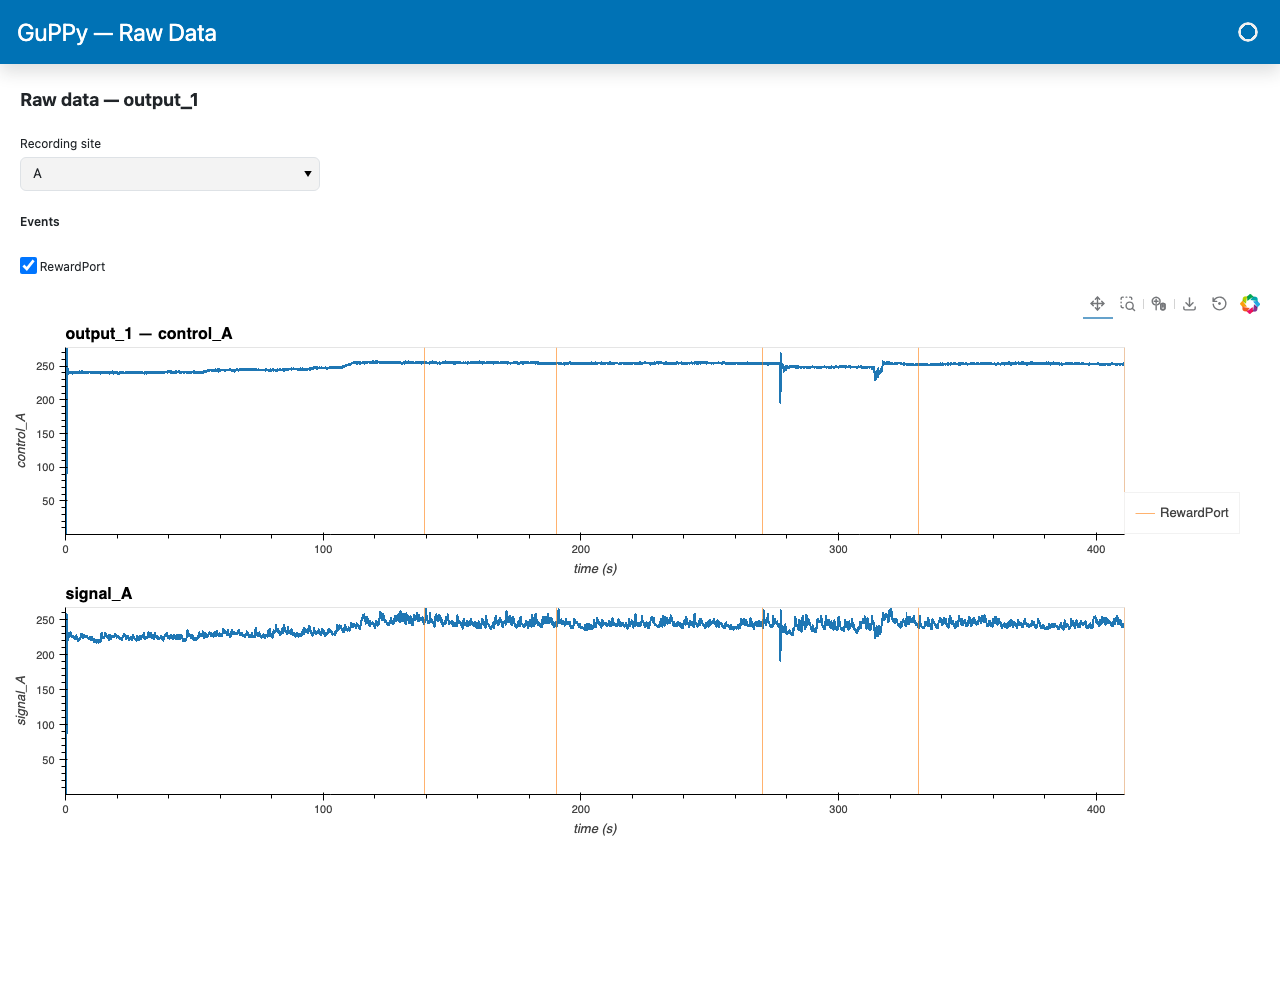
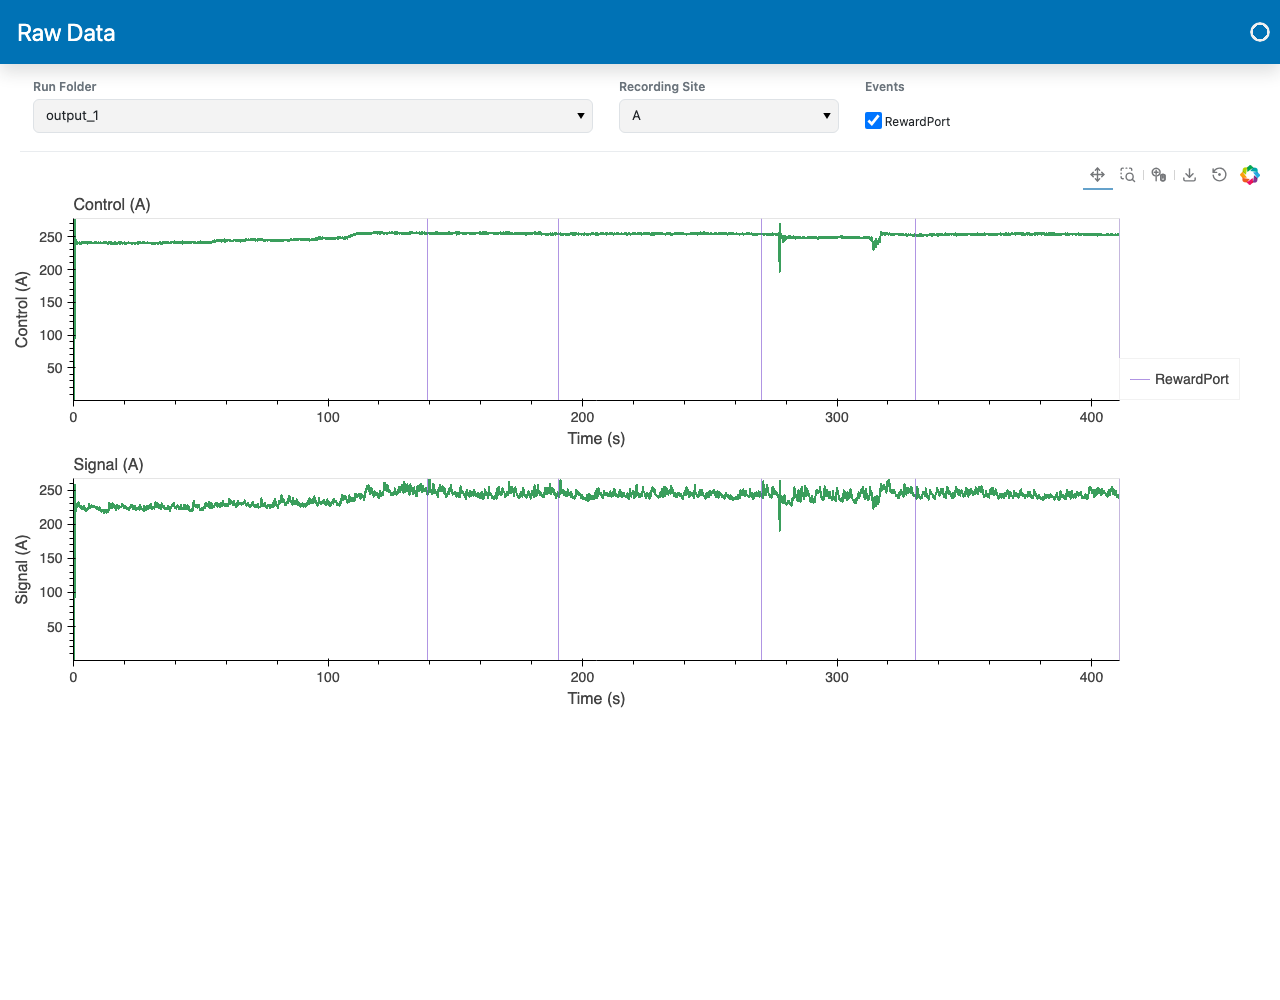
Port the Raw Data view to the run-folder page layout from #590
The view now takes the Run Folder toolbar field build_run_folder_page passes, puts the
recording site and event pickers in the toolbar beside it, titles each trace with
trace_title, labels time with TIME_LABEL, and draws events in the plot palette's
non-trace colors.

diff --git a/src/guppy/frontend/raw_data_view.py b/src/guppy/frontend/raw_data_view.py
@@ -12,6 +12,7 @@ import numpy as np
 import panel as pn
 
 from .artifact_removal import build_run_folder_page
+from .plot_card import CHECKBOX_MARGIN, CONTROL_MARGIN, plot_page, toolbar_field
 from ..analysis.io_utils import (
     is_channel_label,
     is_covariate_label,
@@ -19,6 +20,7 @@ from ..analysis.io_utils import (
 )
 from ..analysis.timestamp_correction import expand_block_timestamps
 from ..utils.stores_list import read_stores_list
+from ..visualization.labels import trace_title
 from ..visualization.raw_data import build_raw_traces, event_colors
 
 hv.extension("bokeh")
@@ -96,8 +98,8 @@ class RawDataView:
         Recording site → channel label → ``(times, values)``.
     event_times : dict
         Event label → event timestamps.
-    label : str
-        Name of the run folder among the ones on offer.
+    run_field : pn.viewable.Viewable
+        The "Run Folder" toolbar field, placed first in the page's toolbar.
     """
 
     def __init__(
@@ -105,43 +107,40 @@ class RawDataView:
         *,
         channels: dict[str, dict[str, tuple[np.ndarray, np.ndarray]]],
         event_times: dict[str, np.ndarray],
-        label: str,
+        run_field: pn.viewable.Viewable,
     ) -> None:
         self.channels = channels
         self.event_times = event_times
-        self.label = label
         self.colors = event_colors(event_labels=list(event_times))
 
         sites = list(channels)
-        self.site_select = pn.widgets.Select(name="Recording site", options=sites, value=sites[0])
-        self.event_select = pn.widgets.CheckBoxGroup(options=list(event_times), value=list(event_times), inline=True)
+        self.site_select = pn.widgets.Select(options=sites, value=sites[0], width=220, margin=CONTROL_MARGIN)
+        self.event_select = pn.widgets.CheckBoxGroup(
+            options=list(event_times), value=list(event_times), inline=True, margin=CHECKBOX_MARGIN
+        )
         self.plot_pane = pn.pane.HoloViews(self._make_plot(), sizing_mode="stretch_width")
         self.site_select.param.watch(self._refresh, "value")
         self.event_select.param.watch(self._refresh, "value")
 
-        self.widget = pn.Column(
-            f"## Raw data — {self.label}",
-            self.site_select,
-            *(["**Events**", self.event_select] if event_times else []),
-            self.plot_pane,
-            sizing_mode="stretch_width",
-        )
+        fields = [run_field, toolbar_field("Recording Site", self.site_select)]
+        if event_times:
+            fields.append(toolbar_field("Events", self.event_select))
+        self.widget = plot_page(fields=fields, body=[self.plot_pane])
 
     def _make_plot(self) -> hv.Layout:
         return build_raw_traces(
-            traces=self.channels[self.site_select.value],
+            traces={trace_title(channel): trace for channel, trace in self.channels[self.site_select.value].items()},
             event_times={label: self.event_times[label] for label in self.event_select.value},
             colors=self.colors,
-            suptitle=self.label,
         )
 
     def _refresh(self, event: object) -> None:
         self.plot_pane.object = self._make_plot()
 
 
-def _build_folder_page(*, run_folder: str, label: str) -> pn.viewable.Viewable:
+def _build_folder_page(run_folder: str, run_field: pn.viewable.Viewable) -> pn.viewable.Viewable:
     channels, event_times = load_raw_data(run_folder=run_folder)
-    return RawDataView(channels=channels, event_times=event_times, label=label).widget
+    return RawDataView(channels=channels, event_times=event_times, run_field=run_field).widget
 
 
 def build_raw_data_view_page(*, run_folders: list[str]) -> pn.viewable.Viewable:
@@ -157,7 +156,4 @@ def build_raw_data_view_page(*, run_folders: list[str]) -> pn.viewable.Viewable:
     pn.viewable.Viewable
         The composed page.
     """
-    return build_run_folder_page(
-        run_folders=run_folders,
-        build_folder_page=lambda run_folder, label: _build_folder_page(run_folder=run_folder, label=label),
-    )
+    return build_run_folder_page(run_folders=run_folders, build_folder_page=_build_folder_page)

diff --git a/tests/unit/frontend/test_raw_data_view.py b/tests/unit/frontend/test_raw_data_view.py
@@ -13,6 +13,16 @@ from guppy.utils.stores_list import write_stores_list
 from guppy_test_data import resolve_plot
 
 
+def toolbar_labels(page):
+    """The labels of a page's toolbar fields, which open the page."""
+    return [field[0].object.split(">")[1].split("<")[0] for field in page[0]]
+
+
+def run_folder_selectors(page):
+    """The run folder selectors on a page: the selects offering run folders by label."""
+    return [select for select in page.select(pn.widgets.Select) if isinstance(select.options, dict)]
+
+
 @pytest.fixture
 def block_run_folder(tmp_path):
     """A run folder laid out as Step 2 writes block-structured (TDT) stores.
@@ -110,23 +120,23 @@ def _event_lines(view, index):
     """Event label → x positions of the vertical lines drawn on one panel."""
     plot = resolve_plot(view.plot_pane.object.values()[index])
     elements = list(plot.values()) if isinstance(plot, hv.Overlay) else [plot]
-    return {item.label: list(item.data["time (s)"]) for item in elements if isinstance(item, hv.VLines)}
+    return {item.label: list(item.data["Time (s)"]) for item in elements if isinstance(item, hv.VLines)}
 
 
 @pytest.fixture
 def raw_data_view(panel_extension, sample_run_folder):
     channels, event_times = load_raw_data(run_folder=str(sample_run_folder))
-    return RawDataView(channels=channels, event_times=event_times, label="output_1")
+    return RawDataView(channels=channels, event_times=event_times, run_field=pn.Column())
 
 
 class TestRawDataView:
     def test_stacks_the_first_sites_channels(self, raw_data_view):
         assert raw_data_view.site_select.options == ["A", "B"]
-        assert _panel_titles(raw_data_view) == ["output_1 — control_A", "signal_A"]
+        assert _panel_titles(raw_data_view) == ["Control (A)", "Signal (A)"]
 
     def test_site_selector_switches_the_channels(self, raw_data_view):
         raw_data_view.site_select.value = "B"
-        assert _panel_titles(raw_data_view) == ["output_1 — signal_B"]
+        assert _panel_titles(raw_data_view) == ["Signal (B)"]
 
     def test_marks_every_event_on_every_panel(self, raw_data_view):
         assert raw_data_view.event_select.value == ["lick", "reward"]
@@ -141,18 +151,20 @@ class TestRawDataView:
         view = RawDataView(
             channels={"A": {"signal_A": (np.array([0.0, 1.0]), np.array([1.0, 2.0]))}},
             event_times={},
-            label="output_1",
+            run_field=pn.Column(),
         )
-        assert "**Events**" not in [item.object for item in view.widget if isinstance(item, pn.pane.Markdown)]
+        assert view.widget.select(pn.widgets.CheckBoxGroup) == []
         assert _event_lines(view, 0) == {}
 
 
 class TestBuildRawDataViewPage:
-    def test_single_folder_has_no_folder_selector(self, panel_extension, sample_run_folder):
+    def test_single_folder_still_names_its_run_in_the_toolbar(self, panel_extension, sample_run_folder):
         page = build_raw_data_view_page(run_folders=[str(sample_run_folder)])
-        assert [widget for widget in page.select(pn.widgets.Select) if widget.name == "Run folder"] == []
+        (view,) = page
+        assert toolbar_labels(view) == ["Run Folder", "Recording Site", "Events"]
+        assert [list(select.options.values()) for select in run_folder_selectors(page)] == [[str(sample_run_folder)]]
 
     def test_multiple_folders_get_a_folder_selector(self, panel_extension, block_run_folder, sample_run_folder):
         page = build_raw_data_view_page(run_folders=[str(block_run_folder), str(sample_run_folder)])
-        (run_folder_select,) = [widget for widget in page.select(pn.widgets.Select) if widget.name == "Run folder"]
+        (run_folder_select,) = run_folder_selectors(page)
         assert set(run_folder_select.options.values()) == {str(block_run_folder), str(sample_run_folder)}

diff --git a/src/guppy/visualization/raw_data.py b/src/guppy/visualization/raw_data.py
@@ -2,12 +2,13 @@
 
 import holoviews as hv
 import numpy as np
-from bokeh.palettes import Category10_10
 
+from .labels import TIME_LABEL
+from .palette import CONTROL, PLOT_COLORS, SIGNAL
 from .shading import shade_trace
 
-# The trace hue is Category10's first color, so events take the rest and stay distinguishable from it.
-_EVENT_PALETTE = Category10_10[1:]
+# Events take the plot colors the control and signal do not, so an event line never reads as a trace.
+_EVENT_PALETTE = [color for color in PLOT_COLORS if color not in (CONTROL, SIGNAL)]
 
 
 def event_colors(*, event_labels: list[str]) -> dict[str, str]:
@@ -31,7 +32,6 @@ def build_raw_traces(
     traces: dict[str, tuple[np.ndarray, np.ndarray]],
     event_times: dict[str, np.ndarray],
     colors: dict[str, str],
-    suptitle: str,
 ) -> hv.Layout:
     """Build density-shaded raw traces stacked over a shared time axis, with event times marked.
 
@@ -48,8 +48,6 @@ def build_raw_traces(
         Event label → times at which the event occurred.
     colors : dict
         Event label → color its lines are drawn in.
-    suptitle : str
-        Run-level title prefix applied to the first panel.
 
     Returns
     -------
@@ -58,14 +56,14 @@ def build_raw_traces(
     """
     panels = []
     for index, (title, (times, values)) in enumerate(traces.items()):
-        panel = shade_trace(hv.Curve((times, values), "time (s)", title))
+        panel = shade_trace(hv.Curve((times, values), TIME_LABEL, title))
         for label, times_of_event in event_times.items():
-            panel = panel * hv.VLines(list(times_of_event), kdims=["time (s)"], label=label).opts(
+            panel = panel * hv.VLines(list(times_of_event), kdims=[TIME_LABEL], label=label).opts(
                 color=colors[label], alpha=0.6, line_width=1
             )
         panels.append(
             panel.opts(
-                title=f"{suptitle} — {title}" if index == 0 else title,
+                title=title,
                 responsive=True,
                 height=260,
                 show_legend=index == 0,

diff --git a/tests/unit/visualization/test_raw_data.py b/tests/unit/visualization/test_raw_data.py
@@ -7,28 +7,27 @@ from guppy_test_data import resolve_plot
 
 def test_event_colors_skip_the_trace_hue_and_cycle():
     colors = event_colors(event_labels=[f"event_{index}" for index in range(10)])
-    assert colors["event_0"] == "#ff7f0e"
-    assert colors["event_1"] == "#2ca02c"
-    assert colors["event_8"] == "#17becf"
-    assert colors["event_9"] == "#ff7f0e"
+    assert colors["event_0"] == "#7B4FD0"
+    assert colors["event_1"] == "#D08C15"
+    assert colors["event_4"] == "#6B7785"
+    assert colors["event_5"] == "#7B4FD0"
 
 
 def test_build_raw_traces_stacks_one_panel_per_trace_with_its_own_times(panel_extension):
     layout = build_raw_traces(
         traces={
-            "control_A": (np.array([0.0, 1.0, 2.0]), np.array([1.0, 2.0, 3.0])),
-            "signal_A": (np.array([0.0, 2.0]), np.array([5.0, 7.0])),
+            "Control (A)": (np.array([0.0, 1.0, 2.0]), np.array([1.0, 2.0, 3.0])),
+            "Signal (A)": (np.array([0.0, 2.0]), np.array([5.0, 7.0])),
         },
         event_times={"reward": np.array([1.5])},
         colors={"reward": "#2ca02c"},
-        suptitle="output_1",
     )
 
     panels = [resolve_plot(panel) for panel in layout.values()]
-    assert [panel.opts.get("plot").kwargs["title"] for panel in panels] == ["output_1 — control_A", "signal_A"]
+    assert [panel.opts.get("plot").kwargs["title"] for panel in panels] == ["Control (A)", "Signal (A)"]
     assert [panel.opts.get("plot").kwargs["show_legend"] for panel in panels] == [True, False]
     images = [next(item for item in panel.values() if isinstance(item, hv.RGB)) for panel in panels]
     assert [image.bounds.lbrt() for image in images] == [(0.0, 1.0, 2.0, 3.0), (0.0, 5.0, 2.0, 7.0)]
     lines = [next(item for item in panel.values() if isinstance(item, hv.VLines)) for panel in panels]
-    assert [list(line.data["time (s)"]) for line in lines] == [[1.5], [1.5]]
+    assert [list(line.data["Time (s)"]) for line in lines] == [[1.5], [1.5]]
     assert [line.opts.get("style").kwargs["color"] for line in lines] == ["#2ca02c", "#2ca02c"]

diff --git a/docs/take_screenshots.py b/docs/take_screenshots.py
@@ -705,13 +705,13 @@ def screenshot_raw_data_view(page: Page, tmp_path: Path) -> None:
         selected_runs={str(session): [parse_run_name(run_folder)]},
     )
 
-    template = pn.template.BootstrapTemplate(title="GuPPy — Raw Data")
+    template = pn.template.BootstrapTemplate(title="Raw Data")
     template.main.append(build_raw_data_view_page(run_folders=[run_folder]))
     url = _serve(template)
 
     page.set_viewport_size({"width": 1280, "height": 1000})
     page.goto(url)
-    page.get_by_text("Raw data").first.wait_for()
+    page.get_by_text("Recording Site").first.wait_for()
     page.wait_for_timeout(3000)
     page.screenshot(path=OUTPUT_DIR / "04b_raw_data_view.png", full_page=False)
     print("Saved 04b_raw_data_view.png")

diff --git a/tests/unit/orchestration/test_raw_data_view.py b/tests/unit/orchestration/test_raw_data_view.py
@@ -32,7 +32,9 @@ def test_offers_every_selected_run_even_when_combining(panel_extension, base_inp
 
     (page,) = pages
     assert page.name == "Raw Data"
-    (run_folder_select,) = [widget for widget in page.content.select(pn.widgets.Select) if widget.name == "Run folder"]
+    (run_folder_select,) = [
+        widget for widget in page.content.select(pn.widgets.Select) if isinstance(widget.options, dict)
+    ]
     assert sorted(run_folder_select.options.values()) == [
         str(session_with_two_runs / "output_1"),
         str(session_with_two_runs / "output_2"),

diff --git a/docs/tutorials/first_analysis.md b/docs/tutorials/first_analysis.md
@@ -159,7 +159,7 @@ GuPPy loads each CSV file and writes the data into the output folder you created
 When the step finishes, its status line changes to *✓ Done at* the time it finished, and a Raw Data tab opens beside the form so you can check what was read before preprocessing anything. Pick a recording site and its control and signal traces stack up together, exactly as recorded, on one time axis measured from the first sample. The times of each event store are drawn over both traces as vertical lines, one color per event, and the **Events** checkboxes hide the ones you don't want to see. Zooming one trace zooms the other. If you close the tab, the **View results →** button in the status line under **Read Raw Data** opens it again. Confirmation messages are also logged to the terminal where you launched `guppy`.
 
 ```{image} ../_static/images/04b_raw_data_view.png
-:alt: Raw Data results tab after Read Raw Data, showing the control_A and signal_A traces stacked on a shared time axis with the RewardPort event times drawn as orange vertical lines
+:alt: Raw Data results tab after Read Raw Data, showing the Control (A) and Signal (A) traces stacked on a shared time axis with the RewardPort event times drawn as violet vertical lines
 :align: center
 ```
 
